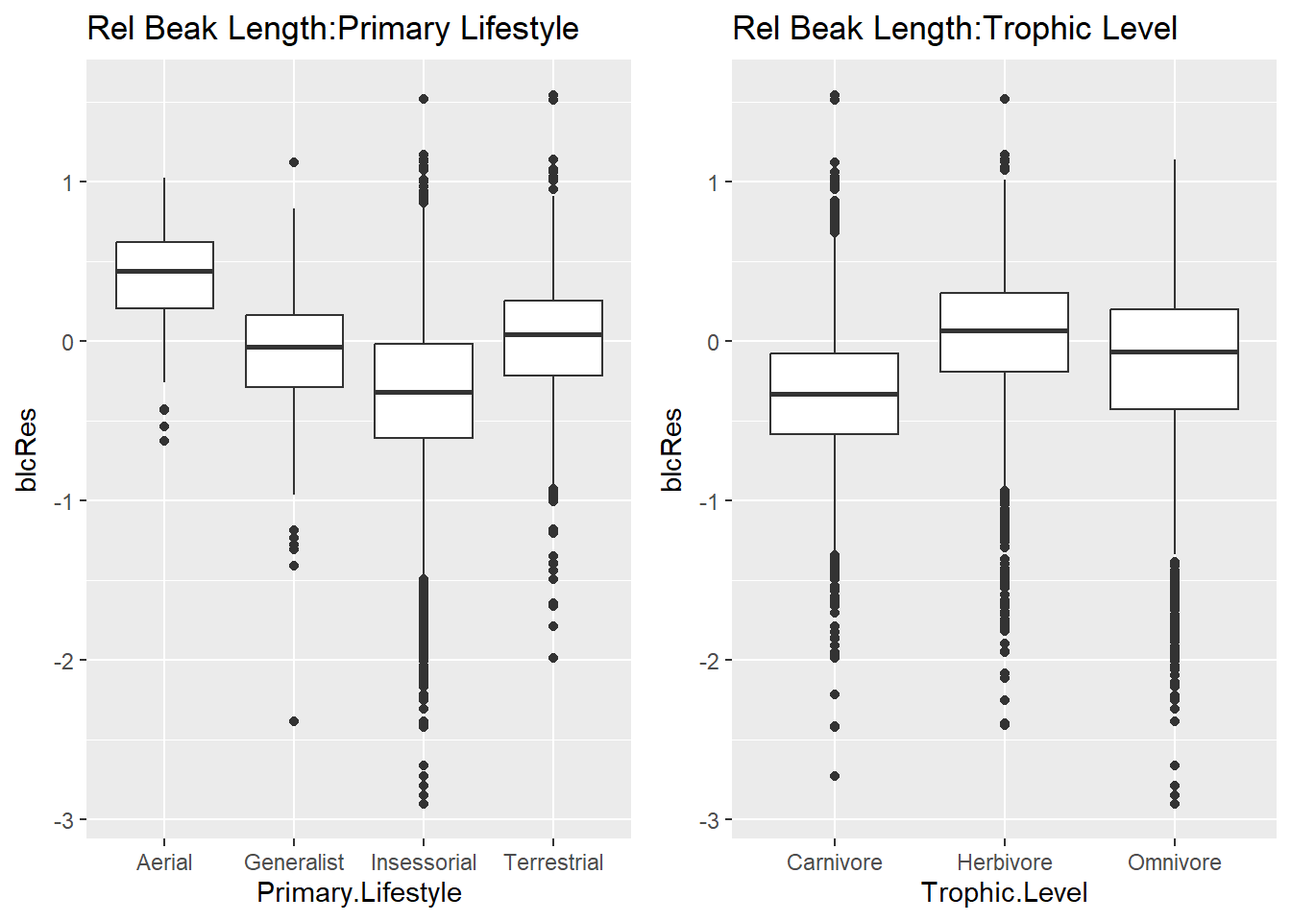
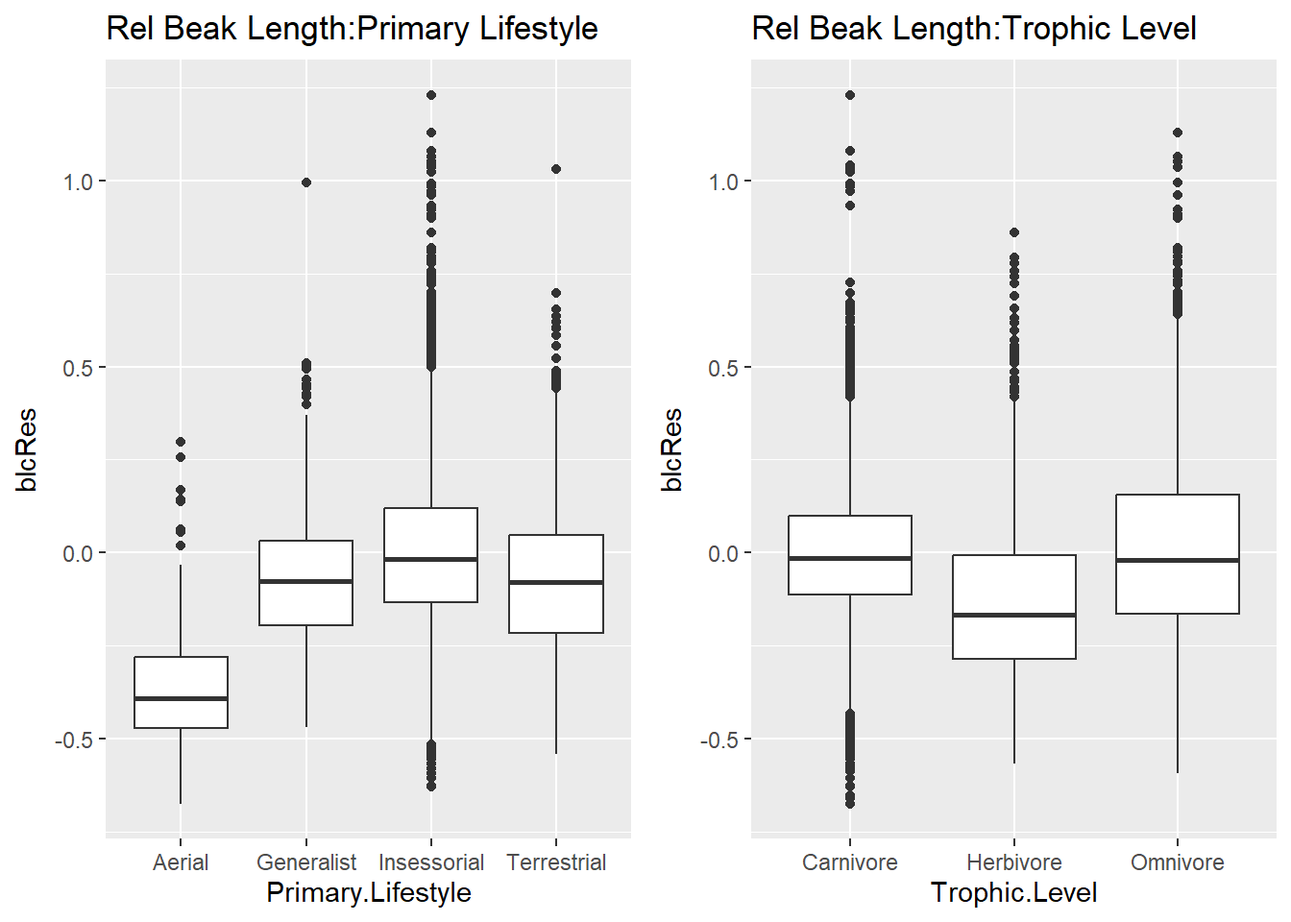
4/3 changes

diff --git a/ex10.html b/ex10.html
@@ -108,16 +108,15 @@ pre > code.sourceCode > span > a:first-child::before { text-decoration: underlin
 <span id="cb1-3"><a href="#cb1-3" aria-hidden="true" tabindex="-1"></a><span class="fu">library</span>(cowplot)</span>
 <span id="cb1-4"><a href="#cb1-4" aria-hidden="true" tabindex="-1"></a><span class="fu">library</span>(infer)</span>
 <span id="cb1-5"><a href="#cb1-5" aria-hidden="true" tabindex="-1"></a><span class="fu">library</span>(skimr)</span>
-<span id="cb1-6"><a href="#cb1-6" aria-hidden="true" tabindex="-1"></a><span class="co">#Still using bird data</span></span>
-<span id="cb1-7"><a href="#cb1-7" aria-hidden="true" tabindex="-1"></a>f <span class="ot">&lt;-</span> <span class="st">"https://raw.githubusercontent.com/difiore/ada-datasets/refs/heads/main/AVONETdataset1.csv"</span></span>
-<span id="cb1-8"><a href="#cb1-8" aria-hidden="true" tabindex="-1"></a>d <span class="ot">&lt;-</span> <span class="fu">read_csv</span>(f, <span class="at">col_names =</span> <span class="cn">TRUE</span>)</span>
-<span id="cb1-9"><a href="#cb1-9" aria-hidden="true" tabindex="-1"></a></span>
-<span id="cb1-10"><a href="#cb1-10" aria-hidden="true" tabindex="-1"></a>d <span class="ot">&lt;-</span> d <span class="sc">|&gt;</span></span>
-<span id="cb1-11"><a href="#cb1-11" aria-hidden="true" tabindex="-1"></a>  <span class="fu">select</span>(Species1, Family1, Order1, Beak.Length_Culmen, Beak.Width, Beak.Depth, </span>
-<span id="cb1-12"><a href="#cb1-12" aria-hidden="true" tabindex="-1"></a>         Tarsus.Length, Wing.Length, Tail.Length, Mass, Habitat, Migration, Trophic.Level, </span>
-<span id="cb1-13"><a href="#cb1-13" aria-hidden="true" tabindex="-1"></a>         Trophic.Niche, Min.Latitude, Max.Latitude, Centroid.Latitude, Primary.Lifestyle, Range.Size) <span class="sc">|&gt;</span></span>
-<span id="cb1-14"><a href="#cb1-14" aria-hidden="true" tabindex="-1"></a>  <span class="fu">mutate</span>(<span class="at">Migration =</span> <span class="fu">as.factor</span>(Migration)) <span class="sc">|&gt;</span></span>
-<span id="cb1-15"><a href="#cb1-15" aria-hidden="true" tabindex="-1"></a>  <span class="fu">mutate</span>(<span class="at">Beak.Length_CulmenLog =</span> <span class="fu">log</span>(Beak.Length_Culmen), <span class="at">Tarsus.LengthLog =</span> <span class="fu">log</span>(Tarsus.Length))</span></code><button title="Copy to Clipboard" class="code-copy-button"><i class="bi"></i></button></pre></div>
+<span id="cb1-6"><a href="#cb1-6" aria-hidden="true" tabindex="-1"></a>f <span class="ot">&lt;-</span> <span class="st">"https://raw.githubusercontent.com/difiore/ada-datasets/refs/heads/main/AVONETdataset1.csv"</span></span>
+<span id="cb1-7"><a href="#cb1-7" aria-hidden="true" tabindex="-1"></a>d <span class="ot">&lt;-</span> <span class="fu">read_csv</span>(f, <span class="at">col_names =</span> <span class="cn">TRUE</span>)</span>
+<span id="cb1-8"><a href="#cb1-8" aria-hidden="true" tabindex="-1"></a></span>
+<span id="cb1-9"><a href="#cb1-9" aria-hidden="true" tabindex="-1"></a>d <span class="ot">&lt;-</span> d <span class="sc">|&gt;</span></span>
+<span id="cb1-10"><a href="#cb1-10" aria-hidden="true" tabindex="-1"></a>  <span class="fu">select</span>(Species1, Family1, Order1, Beak.Length_Culmen, Beak.Width, Beak.Depth, </span>
+<span id="cb1-11"><a href="#cb1-11" aria-hidden="true" tabindex="-1"></a>         Tarsus.Length, Wing.Length, Tail.Length, Mass, Habitat, Migration, Trophic.Level, </span>
+<span id="cb1-12"><a href="#cb1-12" aria-hidden="true" tabindex="-1"></a>         Trophic.Niche, Min.Latitude, Max.Latitude, Centroid.Latitude, Primary.Lifestyle, Range.Size) <span class="sc">|&gt;</span></span>
+<span id="cb1-13"><a href="#cb1-13" aria-hidden="true" tabindex="-1"></a>  <span class="fu">mutate</span>(<span class="at">Migration =</span> <span class="fu">as.factor</span>(Migration)) <span class="sc">|&gt;</span></span>
+<span id="cb1-14"><a href="#cb1-14" aria-hidden="true" tabindex="-1"></a>  <span class="fu">mutate</span>(<span class="at">Beak.Length_CulmenLog =</span> <span class="fu">log</span>(Beak.Length_Culmen), <span class="at">Tarsus.LengthLog =</span> <span class="fu">log</span>(Tarsus.Length))</span></code><button title="Copy to Clipboard" class="code-copy-button"><i class="bi"></i></button></pre></div>
 </div>
 </section>
 <section id="challenge-1" class="level2">
@@ -338,8 +337,8 @@ $Migration
 <h3 class="anchored" data-anchor-id="step-1-1">Step 1</h3>
 <p>First, we will create these new variables, which will be relative beak length and relative tarsus length. These will be calculated based on the residuals of these two variables logged in relation to log(Mass).</p>
 <div class="cell">
-<div class="sourceCode cell-code" id="cb20"><pre class="sourceCode r code-with-copy"><code class="sourceCode r"><span id="cb20-1"><a href="#cb20-1" aria-hidden="true" tabindex="-1"></a>m3 <span class="ot">&lt;-</span> <span class="fu">lm</span>(<span class="fu">log</span>(Mass) <span class="sc">~</span> Beak.Length_CulmenLog, <span class="at">data =</span> d)</span>
-<span id="cb20-2"><a href="#cb20-2" aria-hidden="true" tabindex="-1"></a>m4 <span class="ot">&lt;-</span> <span class="fu">lm</span>(<span class="fu">log</span>(Mass) <span class="sc">~</span> Tarsus.LengthLog, <span class="at">data =</span> d)</span>
+<div class="sourceCode cell-code" id="cb20"><pre class="sourceCode r code-with-copy"><code class="sourceCode r"><span id="cb20-1"><a href="#cb20-1" aria-hidden="true" tabindex="-1"></a>m3 <span class="ot">&lt;-</span> <span class="fu">lm</span>(Beak.Length_CulmenLog <span class="sc">~</span> <span class="fu">log</span>(Mass), <span class="at">data =</span> d)</span>
+<span id="cb20-2"><a href="#cb20-2" aria-hidden="true" tabindex="-1"></a>m4 <span class="ot">&lt;-</span> <span class="fu">lm</span>(Tarsus.LengthLog <span class="sc">~</span> <span class="fu">log</span>(Mass), <span class="at">data =</span> d)</span>
 <span id="cb20-3"><a href="#cb20-3" aria-hidden="true" tabindex="-1"></a>d <span class="ot">&lt;-</span> d <span class="sc">|&gt;</span></span>
 <span id="cb20-4"><a href="#cb20-4" aria-hidden="true" tabindex="-1"></a>  <span class="fu">mutate</span>(<span class="at">blcRes =</span> m3<span class="sc">$</span>residuals, <span class="at">tlRes =</span> m4<span class="sc">$</span>residuals)</span></code><button title="Copy to Clipboard" class="code-copy-button"><i class="bi"></i></button></pre></div>
 </div>
@@ -373,8 +372,8 @@ $Migration
 <p>Migration categories 2 and 3 both differ significantly from the reference level which is category 1. After re-leveling, we see the same relationship when the reference level is 2 or 3, showing significant differences across the three categories. This is reinforced again when we run a Tukey Honest Significant Differences test and plot the confidence intervals.</p>
 <div class="cell">
 <div class="sourceCode cell-code" id="cb22"><pre class="sourceCode r code-with-copy"><code class="sourceCode r"><span id="cb22-1"><a href="#cb22-1" aria-hidden="true" tabindex="-1"></a>d <span class="ot">&lt;-</span> d <span class="sc">|&gt;</span></span>
-<span id="cb22-2"><a href="#cb22-2" aria-hidden="true" tabindex="-1"></a>  <span class="fu">drop_na</span>(Migration) <span class="sc">|&gt;</span></span>
-<span id="cb22-3"><a href="#cb22-3" aria-hidden="true" tabindex="-1"></a>  <span class="fu">mutate</span>(<span class="at">logRange =</span> <span class="fu">log</span>(Range.Size))</span>
+<span id="cb22-2"><a href="#cb22-2" aria-hidden="true" tabindex="-1"></a>  <span class="fu">mutate</span>(<span class="at">logRange =</span> <span class="fu">log</span>(Range.Size))</span>
+<span id="cb22-3"><a href="#cb22-3" aria-hidden="true" tabindex="-1"></a><span class="co">#Migration and Geographic range</span></span>
 <span id="cb22-4"><a href="#cb22-4" aria-hidden="true" tabindex="-1"></a>rangM1 <span class="ot">&lt;-</span> <span class="fu">lm</span>(logRange <span class="sc">~</span> Migration, <span class="at">data =</span> d)</span>
 <span id="cb22-5"><a href="#cb22-5" aria-hidden="true" tabindex="-1"></a><span class="fu">summary</span>(rangM1)</span></code><button title="Copy to Clipboard" class="code-copy-button"><i class="bi"></i></button></pre></div>
 <div class="cell-output cell-output-stdout">
@@ -395,7 +394,7 @@ Migration1  -2.51702    0.09380 -26.834  &lt; 2e-16 ***
 Signif. codes:  0 '***' 0.001 '**' 0.01 '*' 0.05 '.' 0.1 ' ' 1
 
 Residual standard error: 2.785 on 10934 degrees of freedom
-  (49 observations deleted due to missingness)
+  (72 observations deleted due to missingness)
 Multiple R-squared:  0.0869,    Adjusted R-squared:  0.08674 
 F-statistic: 520.3 on 2 and 10934 DF,  p-value: &lt; 2.2e-16</code></pre>
 </div>
@@ -421,7 +420,7 @@ Migration1  -1.78469    0.08606 -20.737  &lt; 2e-16 ***
 Signif. codes:  0 '***' 0.001 '**' 0.01 '*' 0.05 '.' 0.1 ' ' 1
 
 Residual standard error: 2.785 on 10934 degrees of freedom
-  (49 observations deleted due to missingness)
+  (72 observations deleted due to missingness)
 Multiple R-squared:  0.0869,    Adjusted R-squared:  0.08674 
 F-statistic: 520.3 on 2 and 10934 DF,  p-value: &lt; 2.2e-16</code></pre>
 </div>
@@ -446,11 +445,11 @@ Migration3   2.51702    0.09380   26.83   &lt;2e-16 ***
 Signif. codes:  0 '***' 0.001 '**' 0.01 '*' 0.05 '.' 0.1 ' ' 1
 
 Residual standard error: 2.785 on 10934 degrees of freedom
-  (49 observations deleted due to missingness)
+  (72 observations deleted due to missingness)
 Multiple R-squared:  0.0869,    Adjusted R-squared:  0.08674 
 F-statistic: 520.3 on 2 and 10934 DF,  p-value: &lt; 2.2e-16</code></pre>
 </div>
-<div class="sourceCode cell-code" id="cb28"><pre class="sourceCode r code-with-copy"><code class="sourceCode r"><span id="cb28-1"><a href="#cb28-1" aria-hidden="true" tabindex="-1"></a><span class="co">#Relevel back to og</span></span>
+<div class="sourceCode cell-code" id="cb28"><pre class="sourceCode r code-with-copy"><code class="sourceCode r"><span id="cb28-1"><a href="#cb28-1" aria-hidden="true" tabindex="-1"></a><span class="co">#Relevel back to original</span></span>
 <span id="cb28-2"><a href="#cb28-2" aria-hidden="true" tabindex="-1"></a>d<span class="sc">$</span>Migration <span class="ot">&lt;-</span> <span class="fu">relevel</span>(d<span class="sc">$</span>Migration, <span class="at">ref =</span> <span class="dv">1</span>)</span>
 <span id="cb28-3"><a href="#cb28-3" aria-hidden="true" tabindex="-1"></a><span class="co">#Tukey HSD</span></span>
 <span id="cb28-4"><a href="#cb28-4" aria-hidden="true" tabindex="-1"></a>rangM_aov <span class="ot">&lt;-</span> <span class="fu">aov</span>(logRange <span class="sc">~</span> Migration, <span class="at">data =</span> d)</span>
@@ -485,31 +484,13 @@ $Migration
 <div class="sourceCode cell-code" id="cb31"><pre class="sourceCode r code-with-copy"><code class="sourceCode r"><span id="cb31-1"><a href="#cb31-1" aria-hidden="true" tabindex="-1"></a>dp <span class="ot">&lt;-</span> d <span class="sc">|&gt;</span></span>
 <span id="cb31-2"><a href="#cb31-2" aria-hidden="true" tabindex="-1"></a>  <span class="fu">filter</span>(Order1 <span class="sc">==</span> <span class="st">"Passeriformes"</span>)</span>
 <span id="cb31-3"><a href="#cb31-3" aria-hidden="true" tabindex="-1"></a></span>
-<span id="cb31-4"><a href="#cb31-4" aria-hidden="true" tabindex="-1"></a>Paov1 <span class="ot">&lt;-</span> <span class="fu">aov</span>(blcRes <span class="sc">~</span> Primary.Lifestyle, <span class="at">data =</span> dp)</span>
-<span id="cb31-5"><a href="#cb31-5" aria-hidden="true" tabindex="-1"></a><span class="fu">summary</span>(Paov1)</span></code><button title="Copy to Clipboard" class="code-copy-button"><i class="bi"></i></button></pre></div>
-<div class="cell-output cell-output-stdout">
-<pre><code>                    Df Sum Sq Mean Sq F value Pr(&gt;F)    
-Primary.Lifestyle    3    171   57.01   255.3 &lt;2e-16 ***
-Residuals         6602   1474    0.22                   
----
-Signif. codes:  0 '***' 0.001 '**' 0.01 '*' 0.05 '.' 0.1 ' ' 1</code></pre>
-</div>
-<div class="sourceCode cell-code" id="cb33"><pre class="sourceCode r code-with-copy"><code class="sourceCode r"><span id="cb33-1"><a href="#cb33-1" aria-hidden="true" tabindex="-1"></a>Paov2 <span class="ot">&lt;-</span> <span class="fu">aov</span>(blcRes <span class="sc">~</span> Trophic.Level, <span class="at">data =</span> dp)</span>
-<span id="cb33-2"><a href="#cb33-2" aria-hidden="true" tabindex="-1"></a><span class="fu">summary</span>(Paov2)</span></code><button title="Copy to Clipboard" class="code-copy-button"><i class="bi"></i></button></pre></div>
-<div class="cell-output cell-output-stdout">
-<pre><code>                Df Sum Sq Mean Sq F value Pr(&gt;F)    
-Trophic.Level    2  101.3   50.66   216.7 &lt;2e-16 ***
-Residuals     6603 1544.1    0.23                   
----
-Signif. codes:  0 '***' 0.001 '**' 0.01 '*' 0.05 '.' 0.1 ' ' 1</code></pre>
-</div>
-<div class="sourceCode cell-code" id="cb35"><pre class="sourceCode r code-with-copy"><code class="sourceCode r"><span id="cb35-1"><a href="#cb35-1" aria-hidden="true" tabindex="-1"></a>p1 <span class="ot">&lt;-</span> <span class="fu">ggplot</span>(<span class="at">data =</span> dp, <span class="at">mapping =</span> <span class="fu">aes</span>(<span class="at">x =</span> Primary.Lifestyle, <span class="at">y =</span> blcRes)) <span class="sc">+</span></span>
-<span id="cb35-2"><a href="#cb35-2" aria-hidden="true" tabindex="-1"></a>  <span class="fu">geom_boxplot</span>() <span class="sc">+</span></span>
-<span id="cb35-3"><a href="#cb35-3" aria-hidden="true" tabindex="-1"></a>  <span class="fu">ggtitle</span>(<span class="st">"Rel Beak Length:Primary Lifestyle"</span>)</span>
-<span id="cb35-4"><a href="#cb35-4" aria-hidden="true" tabindex="-1"></a>p2 <span class="ot">&lt;-</span> <span class="fu">ggplot</span>(<span class="at">data =</span> dp, <span class="at">mapping =</span> <span class="fu">aes</span>(<span class="at">x =</span> Trophic.Level, <span class="at">y =</span> blcRes)) <span class="sc">+</span></span>
-<span id="cb35-5"><a href="#cb35-5" aria-hidden="true" tabindex="-1"></a>  <span class="fu">geom_boxplot</span>() <span class="sc">+</span></span>
-<span id="cb35-6"><a href="#cb35-6" aria-hidden="true" tabindex="-1"></a>  <span class="fu">ggtitle</span>(<span class="st">"Rel Beak Length:Trophic Level"</span>)</span>
-<span id="cb35-7"><a href="#cb35-7" aria-hidden="true" tabindex="-1"></a><span class="fu">plot_grid</span>(p1, p2)</span></code><button title="Copy to Clipboard" class="code-copy-button"><i class="bi"></i></button></pre></div>
+<span id="cb31-4"><a href="#cb31-4" aria-hidden="true" tabindex="-1"></a>p1 <span class="ot">&lt;-</span> <span class="fu">ggplot</span>(<span class="at">data =</span> dp, <span class="at">mapping =</span> <span class="fu">aes</span>(<span class="at">x =</span> Primary.Lifestyle, <span class="at">y =</span> blcRes)) <span class="sc">+</span></span>
+<span id="cb31-5"><a href="#cb31-5" aria-hidden="true" tabindex="-1"></a>  <span class="fu">geom_boxplot</span>() <span class="sc">+</span></span>
+<span id="cb31-6"><a href="#cb31-6" aria-hidden="true" tabindex="-1"></a>  <span class="fu">ggtitle</span>(<span class="st">"Rel Beak Length:Primary Lifestyle"</span>)</span>
+<span id="cb31-7"><a href="#cb31-7" aria-hidden="true" tabindex="-1"></a>p2 <span class="ot">&lt;-</span> <span class="fu">ggplot</span>(<span class="at">data =</span> dp, <span class="at">mapping =</span> <span class="fu">aes</span>(<span class="at">x =</span> Trophic.Level, <span class="at">y =</span> blcRes)) <span class="sc">+</span></span>
+<span id="cb31-8"><a href="#cb31-8" aria-hidden="true" tabindex="-1"></a>  <span class="fu">geom_boxplot</span>() <span class="sc">+</span></span>
+<span id="cb31-9"><a href="#cb31-9" aria-hidden="true" tabindex="-1"></a>  <span class="fu">ggtitle</span>(<span class="st">"Rel Beak Length:Trophic Level"</span>)</span>
+<span id="cb31-10"><a href="#cb31-10" aria-hidden="true" tabindex="-1"></a><span class="fu">plot_grid</span>(p1, p2)</span></code><button title="Copy to Clipboard" class="code-copy-button"><i class="bi"></i></button></pre></div>
 <div class="cell-output-display">
 <div>
 <figure class="figure">
@@ -517,12 +498,13 @@ Signif. codes:  0 '***' 0.001 '**' 0.01 '*' 0.05 '.' 0.1 ' ' 1</code></pre>
 </figure>
 </div>
 </div>
-<div class="sourceCode cell-code" id="cb36"><pre class="sourceCode r code-with-copy"><code class="sourceCode r"><span id="cb36-1"><a href="#cb36-1" aria-hidden="true" tabindex="-1"></a>dp <span class="ot">&lt;-</span> dp <span class="sc">|&gt;</span></span>
-<span id="cb36-2"><a href="#cb36-2" aria-hidden="true" tabindex="-1"></a>  <span class="fu">mutate</span>(<span class="at">PL.TL =</span> <span class="fu">paste</span>(Primary.Lifestyle, Trophic.Level))</span>
-<span id="cb36-3"><a href="#cb36-3" aria-hidden="true" tabindex="-1"></a>p3 <span class="ot">&lt;-</span> <span class="fu">ggplot</span>(<span class="at">data =</span> dp, <span class="at">mapping =</span> <span class="fu">aes</span>(<span class="at">x =</span> PL.TL, <span class="at">y =</span> blcRes)) <span class="sc">+</span></span>
-<span id="cb36-4"><a href="#cb36-4" aria-hidden="true" tabindex="-1"></a>  <span class="fu">geom_boxplot</span>() <span class="sc">+</span></span>
-<span id="cb36-5"><a href="#cb36-5" aria-hidden="true" tabindex="-1"></a>  <span class="fu">ggtitle</span>(<span class="st">"Rel Beak Length: Lifestyle &amp; Trophic Level"</span>)</span>
-<span id="cb36-6"><a href="#cb36-6" aria-hidden="true" tabindex="-1"></a>p3</span></code><button title="Copy to Clipboard" class="code-copy-button"><i class="bi"></i></button></pre></div>
+<div class="sourceCode cell-code" id="cb32"><pre class="sourceCode r code-with-copy"><code class="sourceCode r"><span id="cb32-1"><a href="#cb32-1" aria-hidden="true" tabindex="-1"></a>dp <span class="ot">&lt;-</span> dp <span class="sc">|&gt;</span></span>
+<span id="cb32-2"><a href="#cb32-2" aria-hidden="true" tabindex="-1"></a>  <span class="fu">mutate</span>(<span class="at">PL.TL =</span> <span class="fu">paste</span>(Primary.Lifestyle, Trophic.Level))</span>
+<span id="cb32-3"><a href="#cb32-3" aria-hidden="true" tabindex="-1"></a>p3 <span class="ot">&lt;-</span> <span class="fu">ggplot</span>(<span class="at">data =</span> dp, <span class="at">mapping =</span> <span class="fu">aes</span>(<span class="at">x =</span> PL.TL, <span class="at">y =</span> blcRes)) <span class="sc">+</span></span>
+<span id="cb32-4"><a href="#cb32-4" aria-hidden="true" tabindex="-1"></a>  <span class="fu">geom_boxplot</span>() <span class="sc">+</span></span>
+<span id="cb32-5"><a href="#cb32-5" aria-hidden="true" tabindex="-1"></a>  <span class="fu">ggtitle</span>(<span class="st">"Rel Beak Length: Lifestyle &amp; Trophic Level"</span>) <span class="sc">+</span></span>
+<span id="cb32-6"><a href="#cb32-6" aria-hidden="true" tabindex="-1"></a>  <span class="fu">theme</span>(<span class="at">axis.text.x =</span> <span class="fu">element_text</span>(<span class="at">angle =</span> <span class="dv">45</span>, <span class="at">hjust =</span> <span class="dv">1</span>))</span>
+<span id="cb32-7"><a href="#cb32-7" aria-hidden="true" tabindex="-1"></a>p3</span></code><button title="Copy to Clipboard" class="code-copy-button"><i class="bi"></i></button></pre></div>
 <div class="cell-output-display">
 <div>
 <figure class="figure">
@@ -530,32 +512,34 @@ Signif. codes:  0 '***' 0.001 '**' 0.01 '*' 0.05 '.' 0.1 ' ' 1</code></pre>
 </figure>
 </div>
 </div>
-<div class="sourceCode cell-code" id="cb37"><pre class="sourceCode r code-with-copy"><code class="sourceCode r"><span id="cb37-1"><a href="#cb37-1" aria-hidden="true" tabindex="-1"></a>Plm1 <span class="ot">&lt;-</span> <span class="fu">lm</span>(blcRes <span class="sc">~</span> Primary.Lifestyle, <span class="at">data =</span> dp)</span>
-<span id="cb37-2"><a href="#cb37-2" aria-hidden="true" tabindex="-1"></a><span class="fu">summary</span>(Plm1)</span></code><button title="Copy to Clipboard" class="code-copy-button"><i class="bi"></i></button></pre></div>
+<div class="sourceCode cell-code" id="cb33"><pre class="sourceCode r code-with-copy"><code class="sourceCode r"><span id="cb33-1"><a href="#cb33-1" aria-hidden="true" tabindex="-1"></a><span class="co">#Primary Lifestyle and Relative beak length</span></span>
+<span id="cb33-2"><a href="#cb33-2" aria-hidden="true" tabindex="-1"></a>Plm1 <span class="ot">&lt;-</span> <span class="fu">lm</span>(blcRes <span class="sc">~</span> Primary.Lifestyle, <span class="at">data =</span> dp)</span>
+<span id="cb33-3"><a href="#cb33-3" aria-hidden="true" tabindex="-1"></a><span class="fu">summary</span>(Plm1)</span></code><button title="Copy to Clipboard" class="code-copy-button"><i class="bi"></i></button></pre></div>
 <div class="cell-output cell-output-stdout">
 <pre><code>
 Call:
 lm(formula = blcRes ~ Primary.Lifestyle, data = dp)
 
 Residuals:
-     Min       1Q   Median       3Q      Max 
--2.56298 -0.25178  0.02714  0.28684  1.86019 
+    Min      1Q  Median      3Q     Max 
+-0.6314 -0.1380 -0.0172  0.1118  1.2241 
 
 Coefficients:
                              Estimate Std. Error t value Pr(&gt;|t|)    
-(Intercept)                   0.37666    0.04750   7.930 2.55e-15 ***
-Primary.LifestyleGeneralist  -0.45137    0.05073  -8.898  &lt; 2e-16 ***
-Primary.LifestyleInsessorial -0.71753    0.04800 -14.949  &lt; 2e-16 ***
-Primary.LifestyleTerrestrial -0.37694    0.04947  -7.619 2.91e-14 ***
+(Intercept)                  -0.34950    0.02158  -16.19   &lt;2e-16 ***
+Primary.LifestyleGeneralist   0.27926    0.02306   12.11   &lt;2e-16 ***
+Primary.LifestyleInsessorial  0.35342    0.02181   16.20   &lt;2e-16 ***
+Primary.LifestyleTerrestrial  0.27924    0.02249   12.42   &lt;2e-16 ***
 ---
 Signif. codes:  0 '***' 0.001 '**' 0.01 '*' 0.05 '.' 0.1 ' ' 1
 
-Residual standard error: 0.4726 on 6602 degrees of freedom
-Multiple R-squared:  0.1039,    Adjusted R-squared:  0.1035 
-F-statistic: 255.3 on 3 and 6602 DF,  p-value: &lt; 2.2e-16</code></pre>
+Residual standard error: 0.2158 on 6610 degrees of freedom
+Multiple R-squared:  0.05581,   Adjusted R-squared:  0.05538 
+F-statistic: 130.2 on 3 and 6610 DF,  p-value: &lt; 2.2e-16</code></pre>
 </div>
-<div class="sourceCode cell-code" id="cb39"><pre class="sourceCode r code-with-copy"><code class="sourceCode r"><span id="cb39-1"><a href="#cb39-1" aria-hidden="true" tabindex="-1"></a>Plm2 <span class="ot">&lt;-</span> <span class="fu">lm</span>(blcRes <span class="sc">~</span> Trophic.Level, <span class="at">data =</span> dp)</span>
-<span id="cb39-2"><a href="#cb39-2" aria-hidden="true" tabindex="-1"></a><span class="fu">summary</span>(Plm2)</span></code><button title="Copy to Clipboard" class="code-copy-button"><i class="bi"></i></button></pre></div>
+<div class="sourceCode cell-code" id="cb35"><pre class="sourceCode r code-with-copy"><code class="sourceCode r"><span id="cb35-1"><a href="#cb35-1" aria-hidden="true" tabindex="-1"></a><span class="co">#Trophic Level and Relative Beak Length</span></span>
+<span id="cb35-2"><a href="#cb35-2" aria-hidden="true" tabindex="-1"></a>Plm2 <span class="ot">&lt;-</span> <span class="fu">lm</span>(blcRes <span class="sc">~</span> Trophic.Level, <span class="at">data =</span> dp)</span>
+<span id="cb35-3"><a href="#cb35-3" aria-hidden="true" tabindex="-1"></a><span class="fu">summary</span>(Plm2)</span></code><button title="Copy to Clipboard" class="code-copy-button"><i class="bi"></i></button></pre></div>
 <div class="cell-output cell-output-stdout">
 <pre><code>
 Call:
@@ -563,19 +547,19 @@ lm(formula = blcRes ~ Trophic.Level, data = dp)
 
 Residuals:
      Min       1Q   Median       3Q      Max 
--2.70132 -0.24125  0.04143  0.30882  1.87334 
+-0.67045 -0.13692 -0.02063  0.11129  1.23116 
 
 Coefficients:
                         Estimate Std. Error t value Pr(&gt;|t|)    
-(Intercept)            -0.333894   0.007825 -42.669   &lt;2e-16 ***
-Trophic.LevelHerbivore  0.318765   0.015541  20.511   &lt;2e-16 ***
-Trophic.LevelOmnivore   0.131368   0.014771   8.894   &lt;2e-16 ***
+(Intercept)            -0.003170   0.003501  -0.906  0.36518    
+Trophic.LevelHerbivore -0.118713   0.006956 -17.066  &lt; 2e-16 ***
+Trophic.LevelOmnivore   0.017902   0.006606   2.710  0.00675 ** 
 ---
 Signif. codes:  0 '***' 0.001 '**' 0.01 '*' 0.05 '.' 0.1 ' ' 1
 
-Residual standard error: 0.4836 on 6603 degrees of freedom
-Multiple R-squared:  0.06158,   Adjusted R-squared:  0.0613 
-F-statistic: 216.6 on 2 and 6603 DF,  p-value: &lt; 2.2e-16</code></pre>
+Residual standard error: 0.2165 on 6611 degrees of freedom
+Multiple R-squared:  0.05001,   Adjusted R-squared:  0.04972 
+F-statistic:   174 on 2 and 6611 DF,  p-value: &lt; 2.2e-16</code></pre>
 </div>
 </div>
 </section>
@@ -583,13 +567,13 @@ F-statistic: 216.6 on 2 and 6603 DF,  p-value: &lt; 2.2e-16</code></pre>
 <h3 class="anchored" data-anchor-id="step-5">Step 5</h3>
 <p>Now, I will run a two-factor anova to see how these two predictors associate with relative beak length. Based on the output, I would conclude that differences in relative beak length can be explained by each species primary lifestyle and trophic level.</p>
 <div class="cell">
-<div class="sourceCode cell-code" id="cb41"><pre class="sourceCode r code-with-copy"><code class="sourceCode r"><span id="cb41-1"><a href="#cb41-1" aria-hidden="true" tabindex="-1"></a>P2wayaov <span class="ot">&lt;-</span> <span class="fu">aov</span>(<span class="at">data =</span> dp, blcRes <span class="sc">~</span> Primary.Lifestyle <span class="sc">+</span> Trophic.Level)</span>
-<span id="cb41-2"><a href="#cb41-2" aria-hidden="true" tabindex="-1"></a><span class="fu">summary</span>(P2wayaov)</span></code><button title="Copy to Clipboard" class="code-copy-button"><i class="bi"></i></button></pre></div>
+<div class="sourceCode cell-code" id="cb37"><pre class="sourceCode r code-with-copy"><code class="sourceCode r"><span id="cb37-1"><a href="#cb37-1" aria-hidden="true" tabindex="-1"></a>P2wayaov <span class="ot">&lt;-</span> <span class="fu">aov</span>(<span class="at">data =</span> dp, blcRes <span class="sc">~</span> Primary.Lifestyle <span class="sc">+</span> Trophic.Level)</span>
+<span id="cb37-2"><a href="#cb37-2" aria-hidden="true" tabindex="-1"></a><span class="fu">summary</span>(P2wayaov)</span></code><button title="Copy to Clipboard" class="code-copy-button"><i class="bi"></i></button></pre></div>
 <div class="cell-output cell-output-stdout">
 <pre><code>                    Df Sum Sq Mean Sq F value Pr(&gt;F)    
-Primary.Lifestyle    3  171.0   57.01   275.7 &lt;2e-16 ***
-Trophic.Level        2  109.8   54.90   265.5 &lt;2e-16 ***
-Residuals         6600 1364.6    0.21                   
+Primary.Lifestyle    3  18.20   6.067   138.1 &lt;2e-16 ***
+Trophic.Level        2  17.68   8.838   201.2 &lt;2e-16 ***
+Residuals         6608 290.24   0.044                   
 ---
 Signif. codes:  0 '***' 0.001 '**' 0.01 '*' 0.05 '.' 0.1 ' ' 1</code></pre>
 </div>
@@ -599,15 +583,15 @@ Signif. codes:  0 '***' 0.001 '**' 0.01 '*' 0.05 '.' 0.1 ' ' 1</code></pre>
 <h3 class="anchored" data-anchor-id="step-6">Step 6</h3>
 <p>Now I will run another two-factor anova but I will add an interaction term to see how the interaction of lifestyle and trophic level explains beak length. Based on the output, the interaction of these two variables has a significant effect on relative beak length.</p>
 <div class="cell">
-<div class="sourceCode cell-code" id="cb43"><pre class="sourceCode r code-with-copy"><code class="sourceCode r"><span id="cb43-1"><a href="#cb43-1" aria-hidden="true" tabindex="-1"></a>PaovInteraction <span class="ot">&lt;-</span> <span class="fu">aov</span>(<span class="at">data =</span> dp, </span>
-<span id="cb43-2"><a href="#cb43-2" aria-hidden="true" tabindex="-1"></a>                       blcRes <span class="sc">~</span> Primary.Lifestyle <span class="sc">+</span> Trophic.Level <span class="sc">+</span> Primary.Lifestyle<span class="sc">:</span>Trophic.Level)</span>
-<span id="cb43-3"><a href="#cb43-3" aria-hidden="true" tabindex="-1"></a><span class="fu">summary</span>(PaovInteraction)</span></code><button title="Copy to Clipboard" class="code-copy-button"><i class="bi"></i></button></pre></div>
+<div class="sourceCode cell-code" id="cb39"><pre class="sourceCode r code-with-copy"><code class="sourceCode r"><span id="cb39-1"><a href="#cb39-1" aria-hidden="true" tabindex="-1"></a>PaovInteraction <span class="ot">&lt;-</span> <span class="fu">aov</span>(<span class="at">data =</span> dp, </span>
+<span id="cb39-2"><a href="#cb39-2" aria-hidden="true" tabindex="-1"></a>                       blcRes <span class="sc">~</span> Primary.Lifestyle <span class="sc">+</span> Trophic.Level <span class="sc">+</span> Primary.Lifestyle<span class="sc">:</span>Trophic.Level)</span>
+<span id="cb39-3"><a href="#cb39-3" aria-hidden="true" tabindex="-1"></a><span class="fu">summary</span>(PaovInteraction)</span></code><button title="Copy to Clipboard" class="code-copy-button"><i class="bi"></i></button></pre></div>
 <div class="cell-output cell-output-stdout">
-<pre><code>                                  Df Sum Sq Mean Sq F value   Pr(&gt;F)    
-Primary.Lifestyle                  3  171.0   57.01  277.31  &lt; 2e-16 ***
-Trophic.Level                      2  109.8   54.90  267.02  &lt; 2e-16 ***
-Primary.Lifestyle:Trophic.Level    4    8.6    2.15   10.44 1.98e-08 ***
-Residuals                       6596 1356.0    0.21                     
+<pre><code>                                  Df Sum Sq Mean Sq F value Pr(&gt;F)    
+Primary.Lifestyle                  3  18.20   6.067  142.15 &lt;2e-16 ***
+Trophic.Level                      2  17.68   8.838  207.11 &lt;2e-16 ***
+Primary.Lifestyle:Trophic.Level    4   8.41   2.102   49.26 &lt;2e-16 ***
+Residuals                       6604 281.83   0.043                   
 ---
 Signif. codes:  0 '***' 0.001 '**' 0.01 '*' 0.05 '.' 0.1 ' ' 1</code></pre>
 </div>
@@ -617,8 +601,8 @@ Signif. codes:  0 '***' 0.001 '**' 0.01 '*' 0.05 '.' 0.1 ' ' 1</code></pre>
 <h3 class="anchored" data-anchor-id="step-7">Step 7</h3>
 <p>Now I will create an interaction plot to visualize the interaction between the predictors.</p>
 <div class="cell">
-<div class="sourceCode cell-code" id="cb45"><pre class="sourceCode r code-with-copy"><code class="sourceCode r"><span id="cb45-1"><a href="#cb45-1" aria-hidden="true" tabindex="-1"></a><span class="fu">interaction.plot</span>(<span class="at">x.factor=</span> dp<span class="sc">$</span>Primary.Lifestyle, <span class="at">xlab =</span> <span class="st">"Primary Lifestyle"</span>, <span class="at">trace.factor =</span> dp<span class="sc">$</span>Trophic.Level,</span>
-<span id="cb45-2"><a href="#cb45-2" aria-hidden="true" tabindex="-1"></a>                 <span class="at">trace.label =</span> <span class="st">"Trophic Level"</span>, <span class="at">fun =</span> base<span class="sc">::</span>mean, <span class="at">response =</span> dp<span class="sc">$</span>blcRes, <span class="at">ylab =</span> <span class="st">"Relative Beak Length"</span>)</span></code><button title="Copy to Clipboard" class="code-copy-button"><i class="bi"></i></button></pre></div>
+<div class="sourceCode cell-code" id="cb41"><pre class="sourceCode r code-with-copy"><code class="sourceCode r"><span id="cb41-1"><a href="#cb41-1" aria-hidden="true" tabindex="-1"></a><span class="fu">interaction.plot</span>(<span class="at">x.factor=</span> dp<span class="sc">$</span>Primary.Lifestyle, <span class="at">xlab =</span> <span class="st">"Primary Lifestyle"</span>, <span class="at">trace.factor =</span> dp<span class="sc">$</span>Trophic.Level,</span>
+<span id="cb41-2"><a href="#cb41-2" aria-hidden="true" tabindex="-1"></a>                 <span class="at">trace.label =</span> <span class="st">"Trophic Level"</span>, <span class="at">fun =</span> base<span class="sc">::</span>mean, <span class="at">response =</span> dp<span class="sc">$</span>blcRes, <span class="at">ylab =</span> <span class="st">"Relative Beak Length"</span>)</span></code><button title="Copy to Clipboard" class="code-copy-button"><i class="bi"></i></button></pre></div>
 <div class="cell-output-display">
 <div>
 <figure class="figure">
@@ -630,7 +614,83 @@ Signif. codes:  0 '***' 0.001 '**' 0.01 '*' 0.05 '.' 0.1 ' ' 1</code></pre>
 </section>
 <section id="step-8" class="level3">
 <h3 class="anchored" data-anchor-id="step-8">Step 8</h3>
-<p>As a final step, I will determine if the variances across the groups in the different models are roughly equal.</p>
+<p>As a final step, I will determine if the variances across the group levels in the different models are roughly equal. We ran three main models in this challenge, log(Range Size) ~ Migration, relative beak length ~ Primary Lifestyle, and relative beak length ~ Trophic Level. Each of these three factors (Migration, Primary Lifestyle, and Trophic Level) have different levels to them. Here I will determine if the variances between the levels in each group is roughly equal or not to make sure out modeling method is appropriate. Then we will look at the distribution of the residuals of each model to make sure they follow a normal distribution. I plotted each level of each category first as violin plots to look at their distribution. I then calculated the standard deviation of either range of relative beak length for each category before testing for equal variances. After these calculations, I plotted the histograms of the residuals. Based on the comparisons of the standard deviations, all groups show equal variance as that have a value of less than 2. Additionally, upon visual inspection, the data appears to be normally distributed</p>
+<div class="cell">
+<div class="sourceCode cell-code" id="cb42"><pre class="sourceCode r code-with-copy"><code class="sourceCode r"><span id="cb42-1"><a href="#cb42-1" aria-hidden="true" tabindex="-1"></a><span class="co">#Migration and range size</span></span>
+<span id="cb42-2"><a href="#cb42-2" aria-hidden="true" tabindex="-1"></a>rM <span class="ot">&lt;-</span> <span class="fu">ggplot</span>(<span class="at">data  =</span> d <span class="sc">|&gt;</span> <span class="fu">drop_na</span>(Migration), <span class="at">mapping =</span> <span class="fu">aes</span>(<span class="at">x =</span> Migration, <span class="at">y =</span> logRange)) <span class="sc">+</span></span>
+<span id="cb42-3"><a href="#cb42-3" aria-hidden="true" tabindex="-1"></a>  <span class="fu">geom_violin</span>() <span class="sc">+</span></span>
+<span id="cb42-4"><a href="#cb42-4" aria-hidden="true" tabindex="-1"></a>  <span class="fu">ggtitle</span>(<span class="st">"All Species, Geographic Range and Migration"</span>)</span>
+<span id="cb42-5"><a href="#cb42-5" aria-hidden="true" tabindex="-1"></a>mig <span class="ot">&lt;-</span> d <span class="sc">|&gt;</span></span>
+<span id="cb42-6"><a href="#cb42-6" aria-hidden="true" tabindex="-1"></a>  <span class="fu">drop_na</span>(Migration) <span class="sc">|&gt;</span></span>
+<span id="cb42-7"><a href="#cb42-7" aria-hidden="true" tabindex="-1"></a>  <span class="fu">drop_na</span>(logRange) <span class="sc">|&gt;</span></span>
+<span id="cb42-8"><a href="#cb42-8" aria-hidden="true" tabindex="-1"></a>  <span class="fu">group_by</span>(Migration) <span class="sc">|&gt;</span></span>
+<span id="cb42-9"><a href="#cb42-9" aria-hidden="true" tabindex="-1"></a>  <span class="fu">summarize</span>(<span class="at">sdRange =</span> <span class="fu">sd</span>(logRange))</span>
+<span id="cb42-10"><a href="#cb42-10" aria-hidden="true" tabindex="-1"></a>s <span class="ot">&lt;-</span> <span class="fu">max</span>(mig<span class="sc">$</span>sdRange)<span class="sc">/</span><span class="fu">min</span>(mig<span class="sc">$</span>sdRange)</span>
+<span id="cb42-11"><a href="#cb42-11" aria-hidden="true" tabindex="-1"></a></span>
+<span id="cb42-12"><a href="#cb42-12" aria-hidden="true" tabindex="-1"></a><span class="co">#Rel beak length and Primary Lifestyle</span></span>
+<span id="cb42-13"><a href="#cb42-13" aria-hidden="true" tabindex="-1"></a>bPL <span class="ot">&lt;-</span> <span class="fu">ggplot</span>(<span class="at">data =</span> dp, <span class="at">mapping =</span> <span class="fu">aes</span>(<span class="at">x =</span> Primary.Lifestyle, <span class="at">y =</span> blcRes)) <span class="sc">+</span></span>
+<span id="cb42-14"><a href="#cb42-14" aria-hidden="true" tabindex="-1"></a>  <span class="fu">geom_violin</span>() <span class="sc">+</span></span>
+<span id="cb42-15"><a href="#cb42-15" aria-hidden="true" tabindex="-1"></a>  <span class="fu">ggtitle</span>(<span class="st">"Passeriformes, Relative Beak Length and Primary Lifestyle"</span>) <span class="sc">+</span></span>
+<span id="cb42-16"><a href="#cb42-16" aria-hidden="true" tabindex="-1"></a>  <span class="fu">theme</span>(<span class="at">axis.text.x =</span> <span class="fu">element_text</span>(<span class="at">angle =</span> <span class="dv">45</span>, <span class="at">hjust =</span> <span class="dv">1</span>))</span>
+<span id="cb42-17"><a href="#cb42-17" aria-hidden="true" tabindex="-1"></a>life <span class="ot">&lt;-</span> dp <span class="sc">|&gt;</span></span>
+<span id="cb42-18"><a href="#cb42-18" aria-hidden="true" tabindex="-1"></a>  <span class="fu">drop_na</span>(Primary.Lifestyle) <span class="sc">|&gt;</span></span>
+<span id="cb42-19"><a href="#cb42-19" aria-hidden="true" tabindex="-1"></a>  <span class="fu">group_by</span>(Primary.Lifestyle) <span class="sc">|&gt;</span></span>
+<span id="cb42-20"><a href="#cb42-20" aria-hidden="true" tabindex="-1"></a>  <span class="fu">summarize</span>(<span class="at">sdBeak =</span> <span class="fu">sd</span>(blcRes))</span>
+<span id="cb42-21"><a href="#cb42-21" aria-hidden="true" tabindex="-1"></a>p <span class="ot">&lt;-</span> <span class="fu">max</span>(life<span class="sc">$</span>sdBeak)<span class="sc">/</span><span class="fu">min</span>(life<span class="sc">$</span>sdBeak)</span>
+<span id="cb42-22"><a href="#cb42-22" aria-hidden="true" tabindex="-1"></a></span>
+<span id="cb42-23"><a href="#cb42-23" aria-hidden="true" tabindex="-1"></a><span class="co">#Rel beak length and Trophic Level</span></span>
+<span id="cb42-24"><a href="#cb42-24" aria-hidden="true" tabindex="-1"></a>bTL <span class="ot">&lt;-</span> <span class="fu">ggplot</span>(<span class="at">data =</span> dp, <span class="at">mapping =</span> <span class="fu">aes</span>(<span class="at">x =</span> Trophic.Level, <span class="at">y =</span> blcRes)) <span class="sc">+</span></span>
+<span id="cb42-25"><a href="#cb42-25" aria-hidden="true" tabindex="-1"></a>  <span class="fu">geom_violin</span>() <span class="sc">+</span></span>
+<span id="cb42-26"><a href="#cb42-26" aria-hidden="true" tabindex="-1"></a>  <span class="fu">ggtitle</span>(<span class="st">"Passeriformes, Relative Beak Length and Trophic Level"</span>) <span class="sc">+</span></span>
+<span id="cb42-27"><a href="#cb42-27" aria-hidden="true" tabindex="-1"></a>  <span class="fu">theme</span>(<span class="at">axis.text.x =</span> <span class="fu">element_text</span>(<span class="at">angle =</span> <span class="dv">45</span>, <span class="at">hjust =</span> <span class="dv">1</span>))</span>
+<span id="cb42-28"><a href="#cb42-28" aria-hidden="true" tabindex="-1"></a>troph <span class="ot">&lt;-</span> dp <span class="sc">|&gt;</span></span>
+<span id="cb42-29"><a href="#cb42-29" aria-hidden="true" tabindex="-1"></a>  <span class="fu">drop_na</span>(Trophic.Level) <span class="sc">|&gt;</span></span>
+<span id="cb42-30"><a href="#cb42-30" aria-hidden="true" tabindex="-1"></a>  <span class="fu">group_by</span>(Trophic.Level) <span class="sc">|&gt;</span></span>
+<span id="cb42-31"><a href="#cb42-31" aria-hidden="true" tabindex="-1"></a>  <span class="fu">summarize</span>(<span class="at">sdBeak =</span> <span class="fu">sd</span>(blcRes))</span>
+<span id="cb42-32"><a href="#cb42-32" aria-hidden="true" tabindex="-1"></a>t <span class="ot">&lt;-</span> <span class="fu">max</span>(troph<span class="sc">$</span>sdBeak)<span class="sc">/</span><span class="fu">min</span>(troph<span class="sc">$</span>sdBeak)</span>
+<span id="cb42-33"><a href="#cb42-33" aria-hidden="true" tabindex="-1"></a></span>
+<span id="cb42-34"><a href="#cb42-34" aria-hidden="true" tabindex="-1"></a></span>
+<span id="cb42-35"><a href="#cb42-35" aria-hidden="true" tabindex="-1"></a><span class="fu">plot_grid</span>(rM, bPL, bTL)</span></code><button title="Copy to Clipboard" class="code-copy-button"><i class="bi"></i></button></pre></div>
+<div class="cell-output-display">
+<div>
+<figure class="figure">
+<p><img src="ex10_files/figure-html/unnamed-chunk-13-1.png" class="img-fluid figure-img" width="672"></p>
+</figure>
+</div>
+</div>
+<div class="sourceCode cell-code" id="cb43"><pre class="sourceCode r code-with-copy"><code class="sourceCode r"><span id="cb43-1"><a href="#cb43-1" aria-hidden="true" tabindex="-1"></a><span class="fu">print</span>(<span class="fu">paste</span>(<span class="st">"Migration Varience:"</span>, s, <span class="st">"; Primary Lifestyle Varience:"</span>, p, <span class="st">"; Trophic Level Varience:"</span>, t))</span></code><button title="Copy to Clipboard" class="code-copy-button"><i class="bi"></i></button></pre></div>
+<div class="cell-output cell-output-stdout">
+<pre><code>[1] "Migration Varience: 1.33276434989884 ; Primary Lifestyle Varience: 1.24393292593595 ; Trophic Level Varience: 1.33619408884105"</code></pre>
+</div>
+<div class="sourceCode cell-code" id="cb45"><pre class="sourceCode r code-with-copy"><code class="sourceCode r"><span id="cb45-1"><a href="#cb45-1" aria-hidden="true" tabindex="-1"></a><span class="co">#Plots of residules</span></span>
+<span id="cb45-2"><a href="#cb45-2" aria-hidden="true" tabindex="-1"></a><span class="co">#Migrarion and range size</span></span>
+<span id="cb45-3"><a href="#cb45-3" aria-hidden="true" tabindex="-1"></a><span class="fu">hist</span>(rangM1<span class="sc">$</span>residuals)</span></code><button title="Copy to Clipboard" class="code-copy-button"><i class="bi"></i></button></pre></div>
+<div class="cell-output-display">
+<div>
+<figure class="figure">
+<p><img src="ex10_files/figure-html/unnamed-chunk-13-2.png" class="img-fluid figure-img" width="672"></p>
+</figure>
+</div>
+</div>
+<div class="sourceCode cell-code" id="cb46"><pre class="sourceCode r code-with-copy"><code class="sourceCode r"><span id="cb46-1"><a href="#cb46-1" aria-hidden="true" tabindex="-1"></a><span class="co">#Lifestyle and beak size</span></span>
+<span id="cb46-2"><a href="#cb46-2" aria-hidden="true" tabindex="-1"></a><span class="fu">hist</span>(Plm1<span class="sc">$</span>residuals)</span></code><button title="Copy to Clipboard" class="code-copy-button"><i class="bi"></i></button></pre></div>
+<div class="cell-output-display">
+<div>
+<figure class="figure">
+<p><img src="ex10_files/figure-html/unnamed-chunk-13-3.png" class="img-fluid figure-img" width="672"></p>
+</figure>
+</div>
+</div>
+<div class="sourceCode cell-code" id="cb47"><pre class="sourceCode r code-with-copy"><code class="sourceCode r"><span id="cb47-1"><a href="#cb47-1" aria-hidden="true" tabindex="-1"></a><span class="co">#Trophic level and beak size</span></span>
+<span id="cb47-2"><a href="#cb47-2" aria-hidden="true" tabindex="-1"></a><span class="fu">hist</span>(Plm2<span class="sc">$</span>residuals)</span></code><button title="Copy to Clipboard" class="code-copy-button"><i class="bi"></i></button></pre></div>
+<div class="cell-output-display">
+<div>
+<figure class="figure">
+<p><img src="ex10_files/figure-html/unnamed-chunk-13-4.png" class="img-fluid figure-img" width="672"></p>
+</figure>
+</div>
+</div>
+</div>
 </section>
 </section>
 </section>
